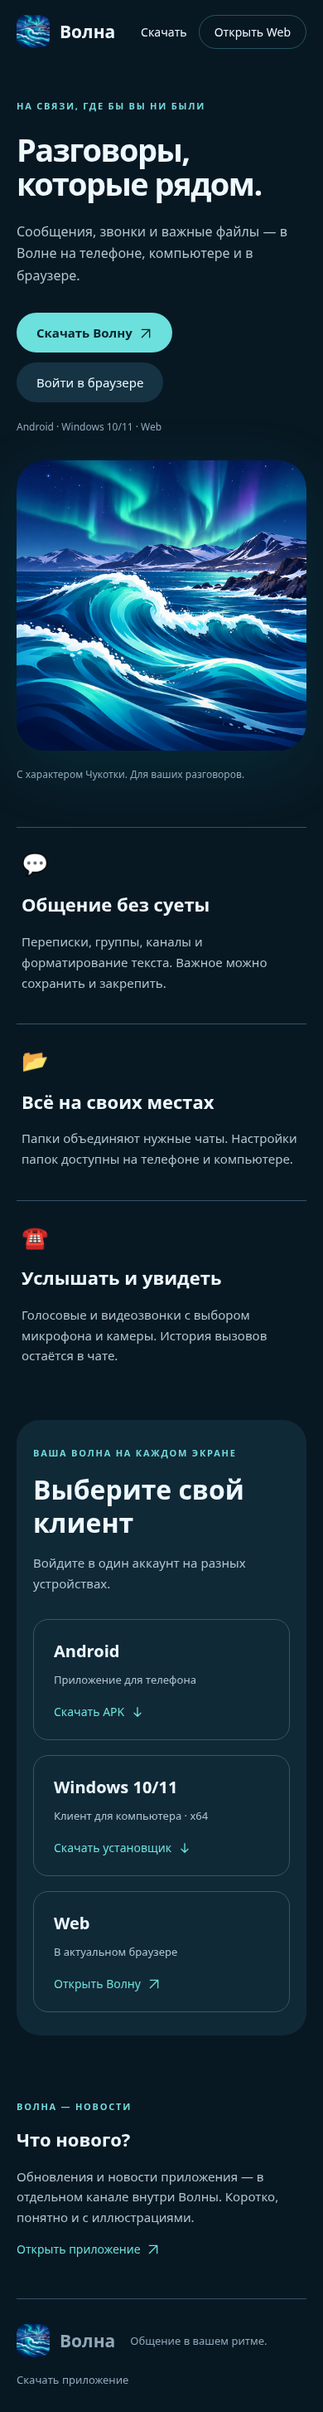
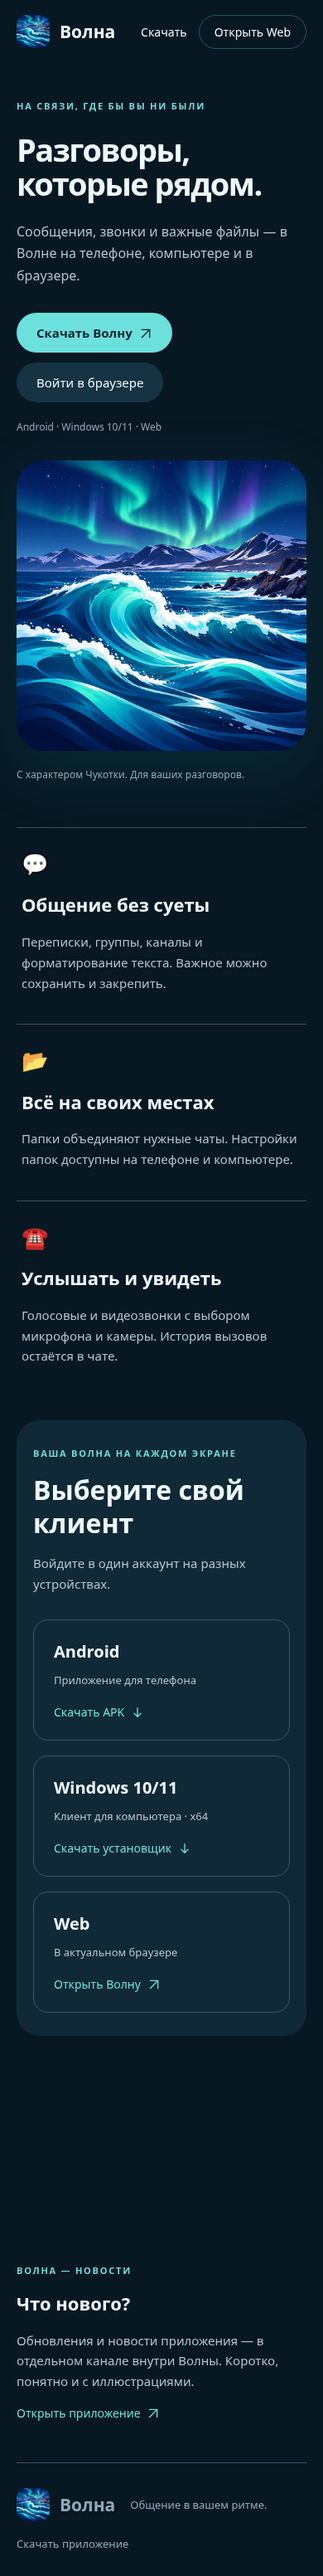
Fix public homepage route and remove deployed demo landing

diff --git a/client/vite.config.js b/client/vite.config.js
@@ -1,3 +1,3 @@
 import {rmSync} from 'node:fs';
 import { defineConfig } from 'vite';
-export default defineConfig({base:'./',plugins:[{name:'omit-production-demo',closeBundle(){rmSync(new URL('./dist/demo',import.meta.url),{recursive:true,force:true});}}],...(process.env.VOLNA_DESKTOP_BUILD==='1'?{publicDir:'.desktop-public'}:{}),server:{proxy:{'/api':'http://127.0.0.1:3000'}}});
+export default defineConfig({base:'./',plugins:[{name:'omit-production-demo',closeBundle(){rmSync(new URL('./dist/demo',import.meta.url),{recursive:true,force:true});rmSync(new URL('./dist/landing.html',import.meta.url),{force:true});}}],...(process.env.VOLNA_DESKTOP_BUILD==='1'?{publicDir:'.desktop-public'}:{}),server:{proxy:{'/api':'http://127.0.0.1:3000'}}});

diff --git a/client/src/site-home.css b/client/src/site-home.css
@@ -3,3 +3,5 @@
 html:has(.site-home),body:has(.site-home),#root:has(.site-home){height:auto;min-height:100%;overflow:visible}.site-home .site-actions span{font-family:Arial,sans-serif}
 
 .site-home .site-arrow{display:inline-block;width:16px;height:16px;vertical-align:-3px;margin-left:4px}
+
+.site-hero figure img{aspect-ratio:1;height:auto}.site-news img{aspect-ratio:16/9;object-fit:cover}

diff --git a/UPDATE-SITE-FIX.md b/UPDATE-SITE-FIX.md
@@ -1,0 +1,26 @@
+# Исправление главной страницы после 0.12.30
+
+Причина: производственный Nginx продолжал отдавать прежний `landing.html`, а новая страница была только в приложении. Проверка через Vite не обнаруживала этот маршрут.
+
+Исправление `v0.12.30-sitefix` переключает `/` на актуальный `index.html`, перенаправляет старый `/landing.html` на главную, исключает старый landing и медиа демо из сборки даже при обновлении распаковкой поверх старых файлов. Скрипт обновления проверяет фактически обслуживаемую главную страницу, а не только номер версии в JS.
+
+Запустите в прежнем каталоге проекта с `compose.yaml` и `.env`. Данные сохраняются; резервная копия создаётся до замены исходников. Установщики Android/Windows не пересобираются и не заменяются.
+
+```sh
+(
+  set -eu
+  test -f compose.yaml && test -f .env
+  volna_site_fix=$(mktemp -d)
+  trap 'rm -rf "$volna_site_fix"' EXIT
+  git clone --depth 1 --branch v0.12.30-sitefix \
+    https://github.com/andluk87/volna.git "$volna_site_fix/source"
+  sh "$volna_site_fix/source/scripts/backup.sh"
+  git -C "$volna_site_fix/source" archive --output="$volna_site_fix/source.tar" HEAD
+  tar -xf "$volna_site_fix/source.tar" -C .
+  VOLNA_BUILD_NETWORK=host sh scripts/update.sh
+)
+```
+
+В конце должна появиться строка `Verified public homepage route and absence of production demo files.` Откройте корень сайта `/`; после обновления уже открытой вкладки можно нажать Ctrl+F5.
+
+Проверка исправления: production-сборка, сохранённый старый файл после распаковки и настоящий Nginx 1.28 с браузерными сценариями для компьютера и телефона. Живой сервер из облачной среды не обновлялся.

diff --git a/README.md b/README.md
@@ -2,6 +2,8 @@
 
 Мессенджер с нативным Android-клиентом Kotlin/Compose, Web, Windows/Electron и API на Node.js/SQLite. Вход: телефон и SMS через выбранного провайдера (Notificore или HTTP-шлюз) в Android; Web и Windows подключаются по QR после подтверждения на телефоне.
 
+**Исправление сайта после 0.12.30:** если видна старая главная страница с демо, установите [v0.12.30-sitefix](UPDATE-SITE-FIX.md).
+
 ### Версия 0.12.30
 
 Новый сайт и общий значок с волнами и Чукоткой, компактные настройки в одном окне, выделение сообщений мышью, подготовка фото до загрузки, экономичный Opus и статус собеседника. Android/Windows скачивают обновления заранее. Сервер создаёт иллюстрированный канал «Волна — новости».

diff --git a/CHANGELOG.md b/CHANGELOG.md
@@ -1,5 +1,11 @@
 # История версий Волны
 
+## 0.12.30-sitefix
+
+- Исправлен production-маршрут главной страницы Nginx: он отдавал прежний `landing.html` с демо. Старый файл исключён из сборки, сохранённые ссылки перенаправляются на новую главную.
+- Обновление проверяет фактически отдаваемую страницу и отсутствие демо. Добавлена проверка через настоящий Nginx, включая обновление поверх старых файлов.
+- [Исправление без пересборки установщиков](UPDATE-SITE-FIX.md).
+
 ## 0.12.30
 
 - Переработаны главная страница сайта и единый значок Android/Web/Windows; демо отключено в production.

diff --git a/UPDATE-0.12.30.md b/UPDATE-0.12.30.md
@@ -10,7 +10,7 @@
   test -f compose.yaml && test -f .env
   volna_update_dir=$(mktemp -d)
   trap 'rm -rf "$volna_update_dir"' EXIT
-  git clone --depth 1 --branch v0.12.30 \
+  git clone --depth 1 --branch v0.12.30-sitefix \
     https://github.com/andluk87/volna.git "$volna_update_dir/source"
   git -C "$volna_update_dir/source" archive \
     --output="$volna_update_dir/source.tar" HEAD
